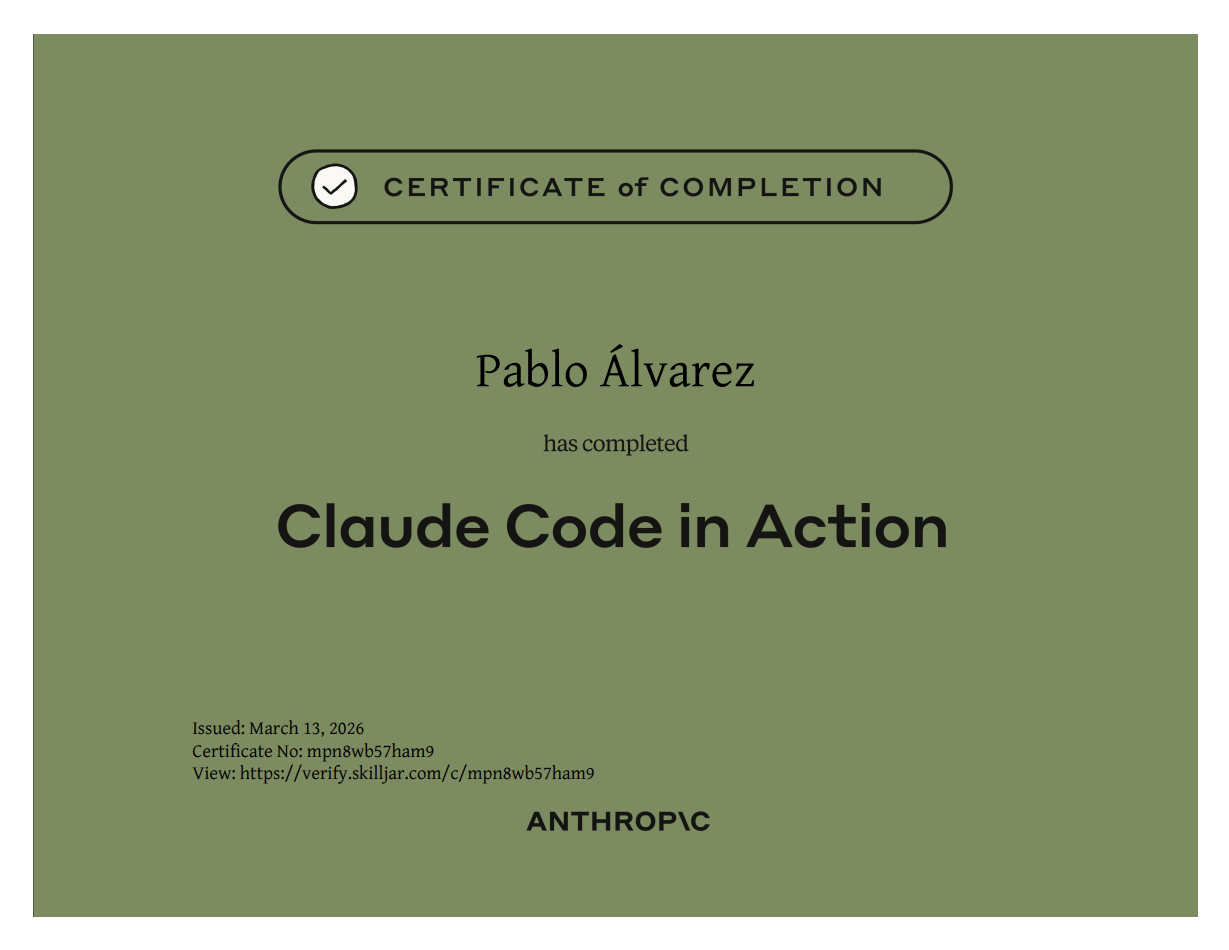
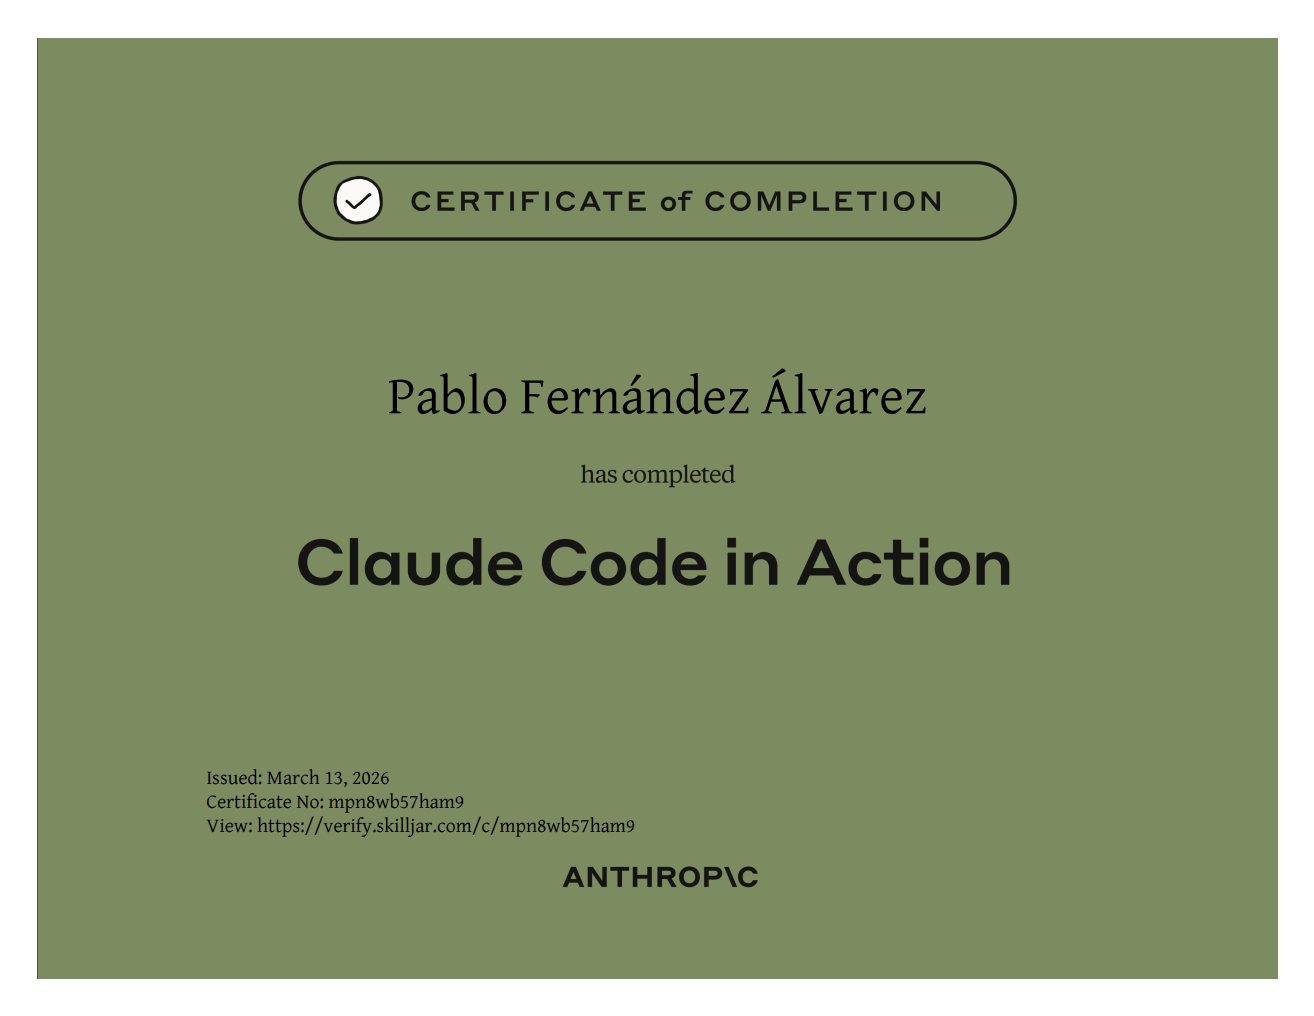
Añadido certificado de Claude (introduction to skills)

diff --git a/index.html b/index.html
@@ -424,19 +424,35 @@
     >Certificates
     </h2>
 
-    <div id="certificatesGrid" class="collapse image-grid mb-5">
-      <a href="images/certificates/Titulo.png" target="_blank">
-        <img src="images/certificates/Titulo.png" class="img-fluid" alt="Pablo Fernandez" />
-      </a>
-      <a href="images/certificates/CertificateUnreal.jpg" target="_blank">
-        <img src="images/certificates/CertificateUnreal.jpg" class="img-fluid" alt="Pablo Fernandez" />
-      </a>
-      <a href="images/certificates/CertificadoC1.jpg" target="_blank">
-        <img src="images/certificates/CertificadoC1.jpg" class="img-fluid" alt="Pablo Fernandez" />
-      </a>
-      <a href="images/certificates/ClaudeCodeInActionCertificate.png" target="_blank">
-        <img src="images/certificates/ClaudeCodeInActionCertificate.png" class="img-fluid" alt="Claude Code in Action Certificate" />
-      </a>
+    <div id="certificatesGrid" class="collapse mb-3">
+      <div class="image-grid mb-5">
+        <a href="images/certificates/Titulo.png" target="_blank">
+          <img src="images/certificates/Titulo.png" class="img-fluid" alt="Pablo Fernandez" />
+        </a>
+        <a href="images/certificates/CertificateUnreal.jpg" target="_blank">
+          <img src="images/certificates/CertificateUnreal.jpg" class="img-fluid" alt="Pablo Fernandez" />
+        </a>
+        <a href="images/certificates/CertificadoC1.jpg" target="_blank">
+          <img src="images/certificates/CertificadoC1.jpg" class="img-fluid" alt="Pablo Fernandez" />
+        </a>
+      </div>
+
+      <h3
+        class="content-title text-center mb-4 dropdown-toggle"
+        data-bs-toggle="collapse"
+        data-bs-target="#claudeCodeGrid"
+        aria-expanded="false"
+        style="cursor: pointer; font-size: 2.5rem;"
+      >Claude Code
+      </h3>
+      <div id="claudeCodeGrid" class="collapse image-grid mb-5">
+        <a href="images/certificates/ClaudeCodeInActionCertificate.png" target="_blank">
+          <img src="images/certificates/ClaudeCodeInActionCertificate.png" class="img-fluid" alt="Claude Code in Action Certificate" />
+        </a>
+        <a href="images/certificates/IntrroductionToSkillsCertificate.png" target="_blank">
+          <img src="images/certificates/IntrroductionToSkillsCertificate.png" class="img-fluid" alt="Introduction to Agent Skills Certificate" />
+        </a>
+      </div>
     </div>
   </div>
 </section>
